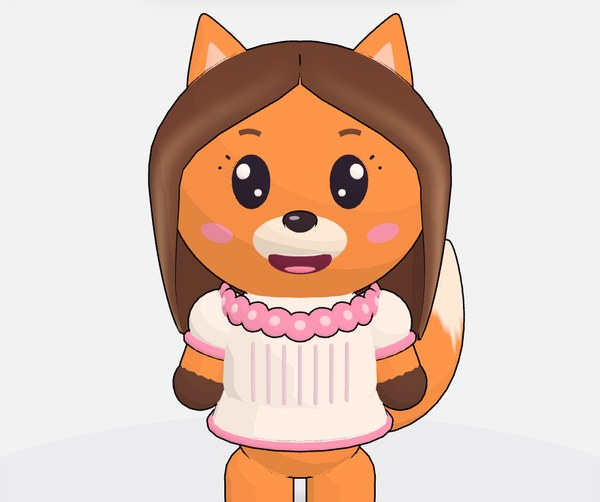
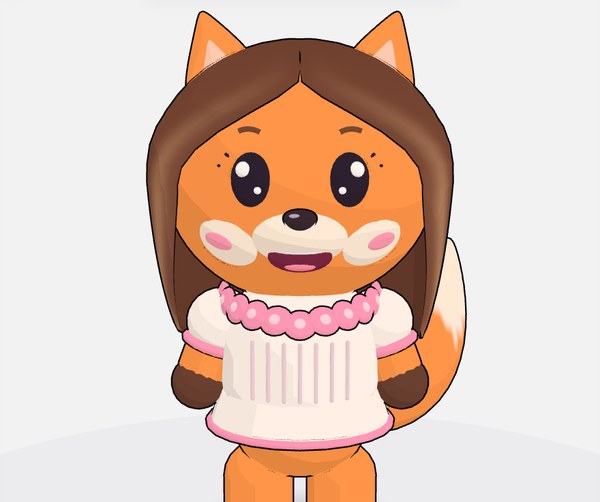
Review page for neb636/joy-look

diff --git a/neb636--joy-look/index.html b/neb636--joy-look/index.html
@@ -37,15 +37,19 @@ button:focus-visible,.pill:focus-visible{outline:3px solid var(--ink);outline-of
 </style></head><body><main>
 <span class="chip">Check-in fix</span>
 <h1>Joy: a fox that looks like Joy</h1>
-<p class="kaylee">Aunt Joy at Agong's house is a proper fox now, with Joy's long hair, big smile and lace blouse. Since your notes: no white beard (only her snout is white), and smaller, all-orange ears.</p>
+<p class="kaylee">Aunt Joy at Agong's house is a proper fox now, with Joy's long hair, big smile and lace blouse. New since your last notes: her puffy cheeks are back, flatter than the old ones, in two versions for you to choose.</p>
 
 
-<h2>Before and after</h2><div class="pics"><figure class="solo"><img src="pics/joy-turn.gif" alt="All the way round" loading="lazy">
-<figcaption><b>All the way round</b>: The new Joy, turning in the character lab</figcaption></figure>
+<h2>Before and after</h2><div class="pics"><figure class="solo"><img src="pics/joy-cheeks-face.jpg" alt="Choose her cheeks" loading="lazy">
+<figcaption><b>Choose her cheeks</b>: A is in the game on this branch; B is one word away</figcaption></figure>
+<figure class="solo"><img src="pics/joy-cheeks-front.jpg" alt="From a little way off" loading="lazy">
+<figcaption><b>From a little way off</b>: How each reads at the size she is in the house</figcaption></figure>
+<figure class="solo"><img src="pics/joy-cheeks-faceq.jpg" alt="Turned" loading="lazy">
+<figcaption><b>Turned</b>: Both are low mounds, not the old cheek balls</figcaption></figure>
 <figure class="pair"><div><img src="pics/joy-front-before.jpg" alt="Before: From the front" loading="lazy"><span>Before</span></div><div><img src="pics/joy-front-after.jpg" alt="After: From the front" loading="lazy"><span>After</span></div>
-<figcaption><b>From the front</b>: Smaller orange ears, a white snout only, long parted hair with lighter strands, a collar of lace roses</figcaption></figure>
+<figcaption><b>From the front</b>: Smaller orange ears, a white snout, long parted hair with lighter strands, a collar of lace roses (A shown)</figcaption></figure>
 <figure class="pair"><div><img src="pics/joy-face-before.jpg" alt="Before: Her face" loading="lazy"><span>Before</span></div><div><img src="pics/joy-face-after.jpg" alt="After: Her face" loading="lazy"><span>After</span></div>
-<figcaption><b>Her face</b>: Soft brows, blush on her cheeks, the same big smile, no white beard</figcaption></figure>
+<figcaption><b>Her face</b>: Soft brows, puffy cheeks, the same big smile, no white beard (A shown)</figcaption></figure>
 <figure class="pair"><div><img src="pics/joy-q-before.jpg" alt="Before: Three-quarter" loading="lazy"><span>Before</span></div><div><img src="pics/joy-q-after.jpg" alt="After: Three-quarter" loading="lazy"><span>After</span></div>
 <figcaption><b>Three-quarter</b>: A big bushy tail with a white tip, out to one side so it shows from the front</figcaption></figure>
 <figure class="pair"><div><img src="pics/joy-back-before.jpg" alt="Before: From behind" loading="lazy"><span>Before</span></div><div><img src="pics/joy-back-after.jpg" alt="After: From behind" loading="lazy"><span>After</span></div>
@@ -54,12 +58,12 @@ button:focus-visible,.pill:focus-visible{outline:3px solid var(--ink);outline-of
 <figcaption><b>In the house</b>: Downstairs at Agong's, where she lives in the game</figcaption></figure></div>
 
 
-<h2>Your call</h2><ol><li><p>Does she look like Joy to you now?</p><textarea rows="2" data-q="0" placeholder="Your answer (a word is fine)"></textarea></li>
+<h2>Your call</h2><ol><li><p>Choose one: A (white cheeks) or B (pink cheeks)?</p><textarea rows="2" data-q="0" placeholder="Your answer (a word is fine)"></textarea></li>
 <li><p>Inside her ears is a paler orange so they still read as ears. Good, or plain orange all through?</p><textarea rows="2" data-q="1" placeholder="Your answer (a word is fine)"></textarea></li></ol><button id="copy">Copy my answers</button><p class="meta" id="done"></p><textarea id="answers" rows="5" readonly aria-label="Your answers, to copy"></textarea>
-<h2>Play it yourself (optional)</h2><p><a class="pill" href="../#/world/characters/joy">Turn her round in the character lab</a> <a class="pill" href="../#/world/characters/joy?lineup=joy,gan,ken,jum">Joy beside her boys and Jum</a> <a class="pill" href="../#/world/thailand/hub/downstairs">Downstairs at Agong's house</a></p>
+<h2>Play it yourself (optional)</h2><p><a class="pill" href="../#/world/characters/joy?lineup=joy,joy-pink">A and B side by side in the lab</a> <a class="pill" href="../#/world/characters/joy?shot=face">A: white cheeks</a> <a class="pill" href="../#/world/characters/joy-pink?shot=face">B: pink cheeks</a> <a class="pill" href="../#/world/thailand/hub/downstairs">Downstairs at Agong's house (A)</a></p>
 </main>
 <script>
-const qs=["Does she look like Joy to you now?","Inside her ears is a paler orange so they still read as ears. Good, or plain orange all through?"],titles=[]
+const qs=["Choose one: A (white cheeks) or B (pink cheeks)?","Inside her ears is a paler orange so they still read as ears. Good, or plain orange all through?"],titles=[]
 let picked=''
 document.querySelectorAll('.pick').forEach(b=>b.addEventListener('click',async()=>{const t='Pick: '+titles[+b.dataset.p];picked=t
   document.querySelectorAll('.pick').forEach(o=>{o.classList.toggle('on',o===b);o.textContent=o===b?'✓ Picked':'Pick this one'})
